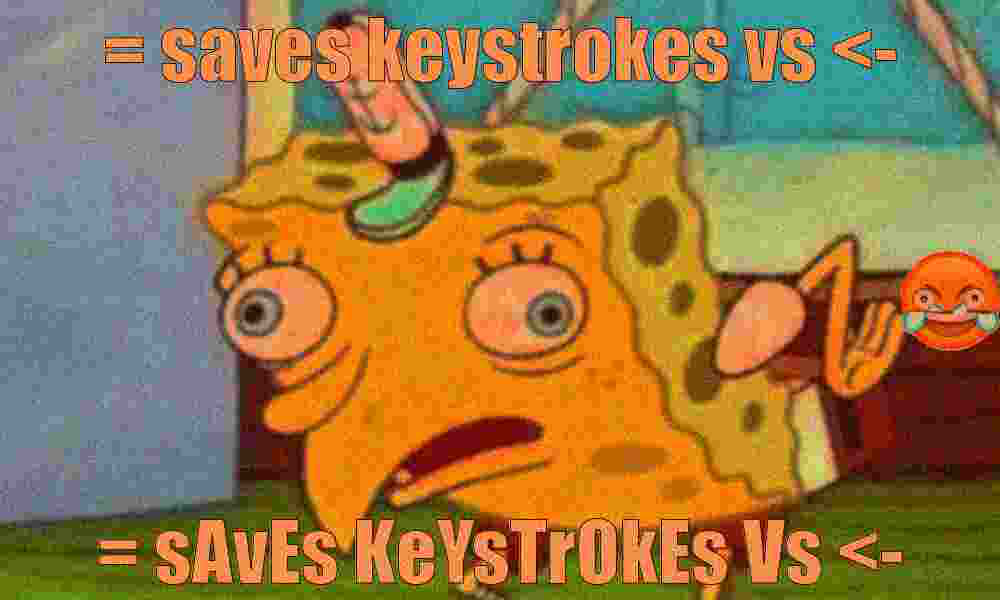
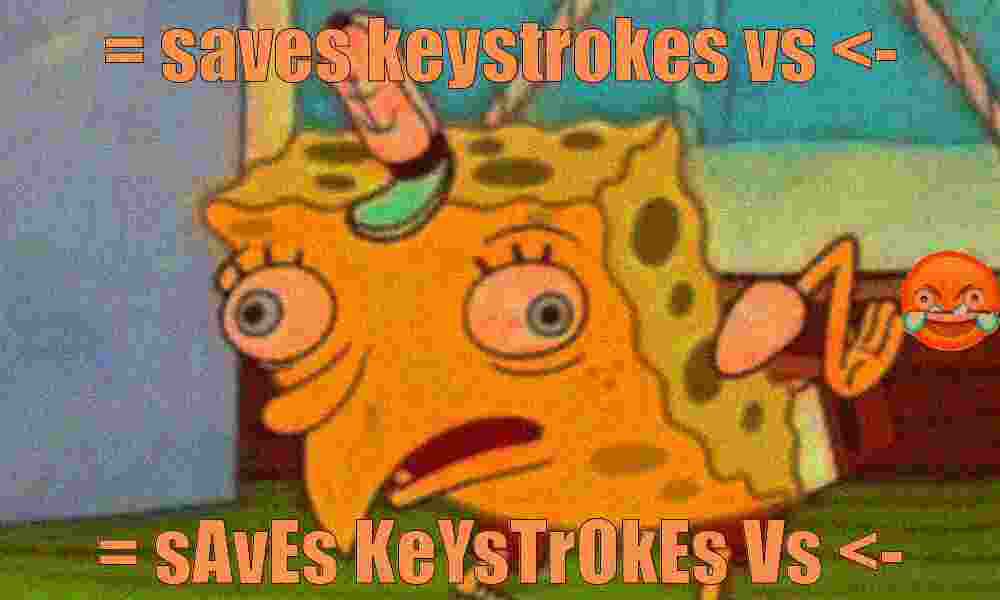
Improve commentary in deepfry post, provide spongebob URL

diff --git a/content/post/2021-11-07-deepfry.html b/content/post/2021-11-07-deepfry.html
@@ -30,8 +30,8 @@ draft: no
 <p>You can make memes in R with <a href="https://github.com/GuangchuangYu/meme/">packages like Guangchang Yu’s {meme}</a>. You could even post them to Twitter with #RStatsMemes for <a href="https://twitter.com/rstatsmemes">@rstatsmemes</a> to find.</p>
 <p>However, it’s no longer enough to present memes as-is. They must be deep-fried to become <a href="https://en.wikipedia.org/wiki/Internet_meme#Irony_and_absurdism">modern and ironic</a>. It will help people think that your meme is so edgy that it’s been re-saved thousands of times.</p>
 </div>
-<div id="setup" class="section level1">
-<h1>Setup</h1>
+<div id="get-to-temperature" class="section level1">
+<h1>Get to temperature</h1>
 <p>You’ll need image-manipulation wizardry from <a href="https://docs.ropensci.org/magick/index.html">the {magick} package</a>, along with <a href="https://github.com/wch/extrafont">{extrafont}</a> to let you use fonts from your system.</p>
 <p>At time of writing there is an issue with importing fonts, which <a href="https://stackoverflow.com/a/68642855">requires an earlier version of {Rttf2pt1} to be installed</a>.</p>
 <pre class="r"><code>install.packages(c(&quot;magick&quot;, &quot;extrafont&quot;, &quot;remotes&quot;))
@@ -40,15 +40,16 @@ remotes::install_version(&quot;Rttf2pt1&quot;, version = &quot;1.3.8&quot;)</cod
 <pre class="r"><code>extrafont::font_import()</code></pre>
 <p>Now we can use important joke fonts—like Impact, Papyrus or Calibri—in our memes.</p>
 </div>
-<div id="frying-utensils" class="section level1">
-<h1>Frying utensils</h1>
-<p>I’ve smashed everything into one <code>fry()</code> function that:</p>
+<div id="small-fry" class="section level1">
+<h1>Small fry</h1>
+<p>I’ve cooked up a single, low-quality function, <code>fry()</code>, that:</p>
 <ol style="list-style-type: decimal">
-<li>Reads a meme template image from a path</li>
-<li>Adds top/bottom text</li>
-<li>Reads a specific cursed cry/laugh emoji from a URL and places it in a random location (corners or left/right sides)</li>
-<li>Adjusts the image contrast, saturation, etc,<a href="#fn1" class="footnote-ref" id="fnref1"><sup>1</sup></a> and then compresses it horribly</li>
-<li>Outputs a <code>magick-image</code> object that you can save with <code>magick::image_write()</code> and send to all your friend</li>
+<li>Reads a meme template image (or any image) from a path</li>
+<li>Adds top/bottom text in Impact font</li>
+<li>Reads from a URL a specific (cursed) cry/laugh emoji that’s popular in deep-frying and places it in a random location (corners or left/right sides)</li>
+<li>Adjusts the image contrast, saturation, etc,<a href="#fn1" class="footnote-ref" id="fnref1"><sup>1</sup></a> and tints it orange</li>
+<li>Writes the image to a temporary jpeg file—compressing it horribly—and then reads it back in</li>
+<li>Outputs a <code>magick-image</code> object that you can save with <code>magick::image_write()</code> and send to all your friend (sic)</li>
 </ol>
 <p>It does what I want it to do; adjust it as you please.</p>
 <pre class="r"><code>suppressPackageStartupMessages(library(magick))
@@ -64,17 +65,11 @@ fry &lt;- function(
   
   emoji &lt;- magick::image_read(emoji_path)
   
-  emoji_where &lt;-  sample(c(
-      paste0(&quot;north&quot;, c(&quot;east&quot;, &quot;west&quot;)),
-      paste0(&quot;south&quot;, c(&quot;east&quot;, &quot;west&quot;)),
-      &quot;east&quot;, &quot;west&quot;
-    ), 1)
-  
-  if (depth == &quot;shallow&quot;) {
-    compress &lt;- 8
-  } else if (depth == &quot;deep&quot;) {
-    compress &lt;- 1
-  } 
+  emoji_where &lt;-  sample(c(  
+    paste0(&quot;north&quot;, c(&quot;east&quot;, &quot;west&quot;)),
+    paste0(&quot;south&quot;, c(&quot;east&quot;, &quot;west&quot;)),
+    &quot;east&quot;, &quot;west&quot;  # e.g. &#39;east&#39; is right
+  ), 1)
   
   img &lt;- image_read(img_path) |&gt; 
     image_annotate(
@@ -87,12 +82,19 @@ fry &lt;- function(
     ) |&gt;
     image_scale(&quot;1000&quot;) |&gt; 
     image_composite(emoji, gravity = emoji_where) |&gt; 
-    image_colorize(30, &quot;orange&quot;) |&gt;
-    image_modulate(80, 120, 90) |&gt; 
+    image_colorize(30, &quot;orange&quot;) |&gt;  # tint
+    image_modulate(brightness = 80, saturation = 120, hue = 90) |&gt;
     image_contrast(sharpen = 100) |&gt; 
     image_noise()
   
   cat(&quot;dunking meme... &quot;)
+  
+  if (depth == &quot;shallow&quot;) {
+    compress &lt;- 8
+  } else if (depth == &quot;deep&quot;) {
+    compress &lt;- 1  # maximum compression
+  } 
+  
   path_out &lt;- tempfile(&quot;meme&quot;, fileext = &quot;.jpeg&quot;)
   image_write(img, path_out, &quot;jpeg&quot;, compress)
   
@@ -103,17 +105,21 @@ fry &lt;- function(
 </div>
 <div id="get-cooking" class="section level1">
 <h1>Get cooking</h1>
-<p>What spicy meme shall I make? Well, the <code>=</code> versus <code>&lt;-</code> assignment-operator flamewar<a href="#fn2" class="footnote-ref" id="fnref2"><sup>2</sup></a> has been cold for a few days, so time to heat it up again. And why not incorporate the world’s most famous fry cook?</p>
-<p>First, a nice shallow fry.</p>
-<pre class="r"><code>sponge_path &lt;- &quot;~/Desktop/spongebob.jpg&quot;
-emoji_path &lt;- paste0(
-    &quot;https://raw.githubusercontent.com/matt-dray/rostrum-blog/&quot;,
-    &quot;master/static/post/2021-11-07-deepfry_files/deepfry-emoji.jpg&quot;
-  )
-bot_txt &lt;- &quot;= sAvEs KeYsTrOkEs Vs &lt;-&quot;
-top_txt &lt;- tolower(bot_txt)
+<p>What spicy meme shall I make? Well, the <code>=</code> versus <code>&lt;-</code> assignment-operator flamewar has been cold for a few days, so time to heat it up again.<a href="#fn2" class="footnote-ref" id="fnref2"><sup>2</sup></a> And why not incorporate the world’s most famous fry cook (in sarcastic form)?</p>
+<pre class="r"><code>sponge_path &lt;- paste0(  # URL to meme image
+  &quot;https://raw.githubusercontent.com/matt-dray/rostrum-blog/&quot;,
+  &quot;master/static/post/2021-11-07-deepfry_files/spongebob.jpg&quot;
+)
 
-fry(sponge_path, emoji_path, top_txt, bot_txt, &quot;shallow&quot;)</code></pre>
+emoji_path &lt;- paste0(  # URL to cry/laugh emoji
+  &quot;https://raw.githubusercontent.com/matt-dray/rostrum-blog/&quot;,
+  &quot;master/static/post/2021-11-07-deepfry_files/deepfry-emoji.jpg&quot;
+)
+
+bot_txt &lt;- &quot;= sAvEs KeYsTrOkEs Vs &lt;-&quot;  # sarcastic text
+top_txt &lt;- tolower(bot_txt)</code></pre>
+<p>First, a nice shallow fry.</p>
+<pre class="r"><code>fry(sponge_path, emoji_path, top_txt, bot_txt, &quot;shallow&quot;)</code></pre>
 <pre><code>## Heating oil... dunking meme... crisp.</code></pre>
 <p><img src="/post/2021-11-07-deepfry_files/figure-html/shallow-fry-1.png" title="A deep-fried meme image, which has been compressed, has an orange tint and includes a cry-laugh emoji. It is less compressed than the next image. The meme is of sarcastic Spongebob, with the same text on the top and bottom, but the lower text has alternating case. It says 'equals-sign saves keystrokes versus assignment-arrow'." alt="A deep-fried meme image, which has been compressed, has an orange tint and includes a cry-laugh emoji. It is less compressed than the next image. The meme is of sarcastic Spongebob, with the same text on the top and bottom, but the lower text has alternating case. It says 'equals-sign saves keystrokes versus assignment-arrow'." width="500" /></p>
 <p>And now we <em>deep</em> fry.</p>
@@ -136,7 +142,7 @@ Session info
 ##  collate  en_GB.UTF-8                 
 ##  ctype    en_GB.UTF-8                 
 ##  tz       Europe/London               
-##  date     2021-11-08                  
+##  date     2021-11-09                  
 ## 
 ## ─ Packages ───────────────────────────────────────────────────────────────────
 ##  package     * version date       lib source        
